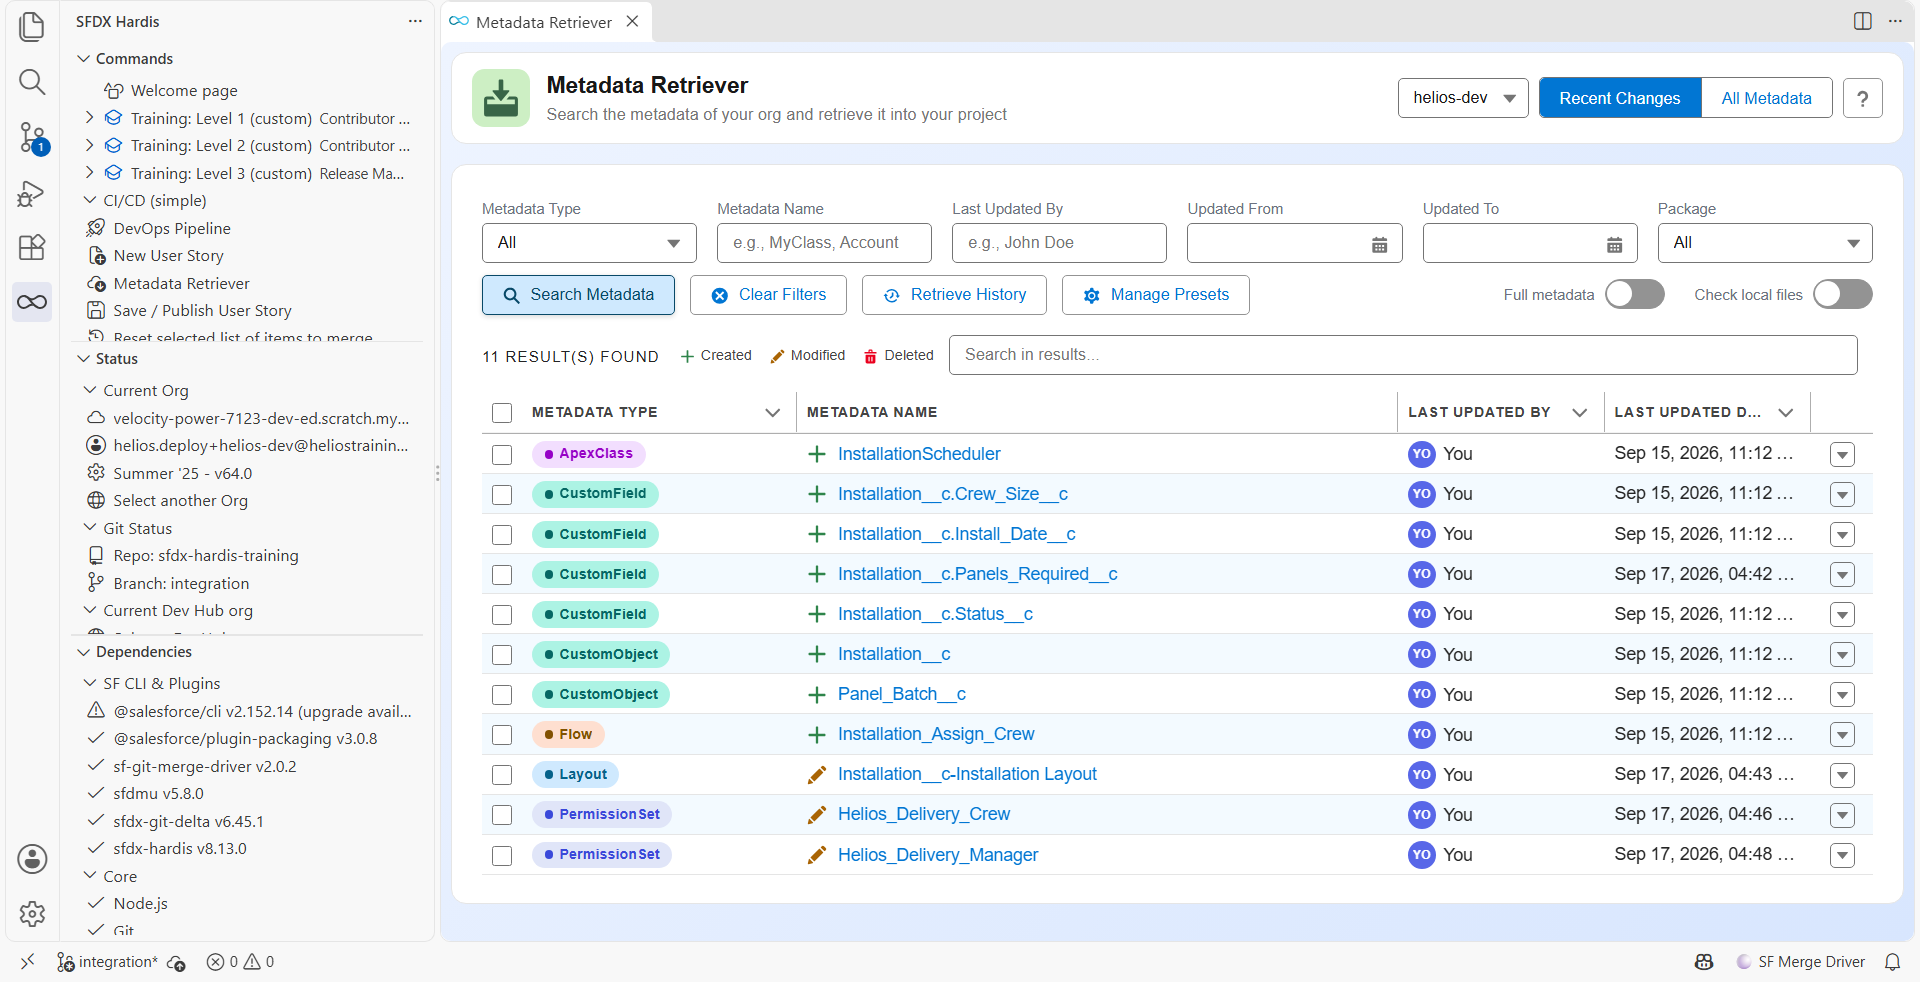
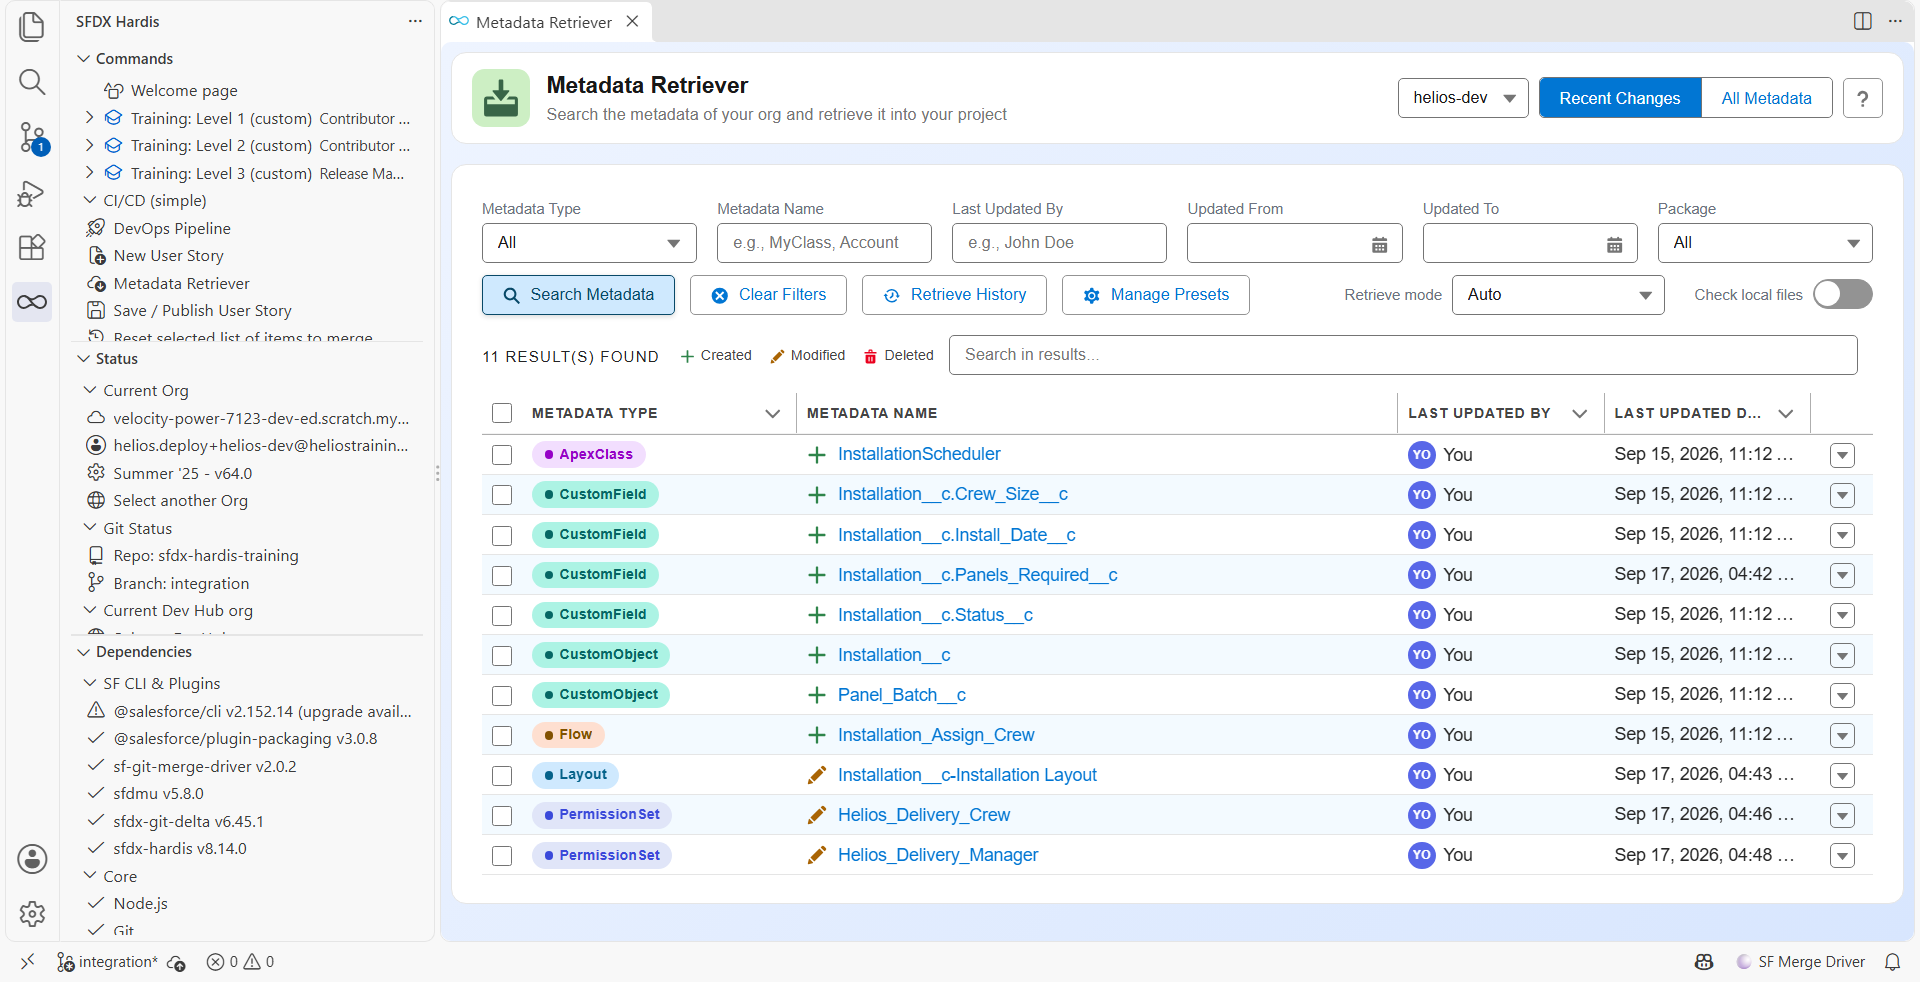
Labs 2.6 and 2.8: Profiles come back whole from the Metadata Retriever (#92)
* fix(labs): Profiles come back whole from the Metadata Retriever Auto mode (Labs 2.6, 2.8)

* fix(labs): French Labs 2.6 and 2.8 follow the Auto retrieve mode, changelog

* fix(labs): Lab 2.6 Profiles carry no permission, and can still be long

* fix(labs): French Lab 2.6 follows

* fix(labs): Lab 2.6 says which permissions stay, Labs 2.6 and 2.8 depend on the retriever and mdapi:read

* fix(labs): French Labs 2.6 and 2.8 follow

* fix(build): doc-links finds the end of a command description past an escaped backtick

* docs(screenshots): Metadata Retriever with the Retrieve mode

diff --git a/labs/fr/level-2-contributor-advanced/2-6-permission-sets-and-profiles.md b/labs/fr/level-2-contributor-advanced/2-6-permission-sets-and-profiles.md
@@ -5,15 +5,15 @@ description: "Une permission accordée sur un profil s'évapore après un déplo
 level: 2
 lab: 6
 lang: fr
-source_rev: "227087b70542c7fdd5f235321968b5154475be67"
+source_rev: "76638d6bc8fedd4ecbcb798f9b026bb80023e7bd"
 screenshots:
   - annotated/vscode/pipeline-cards--new-user-story
   - annotated/vscode/pipeline-config
 depends_on:
-  commands: [hardis:work:save]
-  flags: []
+  commands: [hardis:mdapi:read, hardis:work:save]
+  flags: [--active-only]
   config: [autoCleanTypes, minimizeProfiles, autoRemoveUserPermissions]
-  panels: [pipelineConfig, packageXml]
+  panels: [metadataRetriever, pipelineConfig, packageXml]
   docs: [salesforce-devops-work-on-user-story-profiles]
 ---
 
@@ -68,6 +68,11 @@ Faites-en un retrieve comme d'habitude : **Commit changes**, **Recent Changes**,
 cochez le profil `Helios Crew`, récupérez, et commitez-le depuis **Source Control**. Puis
 **Save / Publish**, poussez, Pull Request, vert, merge.
 
+Le fichier est bien plus long que celui du repository. Le **Retrieve mode** du Metadata Retriever
+indique **Auto** : il récupère un profil en entier, toutes les permissions qu'il accorde dans
+`helios-dev`, donc votre nouvel accès à `Cost` s'y trouve, avec tout ce que le profil peut faire
+d'autre.
+
 ### 2. Découvrir qu'il ne s'est rien passé
 
 Ouvrez `helios-integration` et vérifiez la sécurité au niveau du champ de **Panel Batch > Cost** : la
@@ -98,12 +103,16 @@ même temps :
    d'objet, de champ, d'onglet, d'application et de classe de l'org. Deux personnes qui travaillent
    sur deux stories sans rapport produisent chacune un diff de mille lignes du même fichier, et elles
    entrent en conflit à chaque fois
-2. **Un profil récupéré dit non à ce qu'il n'avait pas.** Il liste les champs et objets de votre
-   package avec `false` partout où le profil n'avait pas accès au moment de la récupération. Si un
-   collègue en a accordé un depuis, déployer votre fichier **le lui éteint**, en silence
-3. **Ce que vous récupérez dépend de votre package.** Un profil est récupéré avec seulement les
-   permissions des composants de votre package : le même profil a donc une tête différente selon qui
-   l'a récupéré et quand
+2. **Un profil récupéré peut dire non à ce qu'il n'avait pas.** Récupéré de la façon standard, il
+   liste les champs et objets de votre package avec `false` partout où le profil n'avait pas accès
+   au moment de la récupération. Si un collègue en a accordé un depuis, déployer votre fichier
+   **le lui éteint**, en silence. Le mode **Auto** du Metadata Retriever laisse ces lignes `false`
+   de côté
+3. **Ce que vous récupérez dépend de la façon, et de l'org.** Récupéré de la façon standard, un
+   profil ne porte que les permissions des composants récupérés avec lui. Récupéré en entier, comme
+   le fait le Metadata Retriever en **Auto**, il porte tout ce que le profil a dans l'org d'où il
+   vient. Dans les deux cas, le même profil a une tête différente selon qui l'a récupéré, depuis
+   quelle org, et quand
 
 `minimizeProfiles` retire des profils tout ce qu'un permission set pourrait porter à la place, en
 laissant les profils ne contenir que ce qui ne peut vraiment vivre nulle part ailleurs : les plages
@@ -120,11 +129,14 @@ transporter finirait par supprimer celui de quelqu'un d'autre.
     chaque org. `Admin` et `Helios Crew` restent donc dans `force-app/main/default/profiles/`,
     restent dans `manifest/package.xml`, et sont déployés avec tout le reste.
 
-    Ils restent **courts** exprès. Un profil récupéré en entier liste des centaines de permissions
-    utilisateur, et Salesforce en ajoute et en retire à chaque release, trois fois par an : un profil
-    complet commité au printemps peut échouer au déploiement à l'automne sur une permission qui
-    n'existe plus. La version courte ne nomme que ce que ce projet a décidé, et `minimizeProfiles` la
-    garde courte à chaque fois que quelqu'un en publie un.
+    Ils ne portent **aucune permission de champ, d'objet, de classe ou de flow**, exprès, et aucune
+    permission utilisateur sauf sur `Admin`. Un profil récupéré en entier liste des centaines de
+    permissions utilisateur, et Salesforce en ajoute et en retire à chaque release, trois fois par an :
+    un profil complet commité au printemps peut échouer au déploiement à l'automne sur une permission
+    qui n'existe plus. `minimizeProfiles` retire ces permissions à chaque fois que quelqu'un publie un
+    profil. Ce qui reste peut quand même être long, car un profil récupéré en entier liste le réglage
+    d'onglet et la présentation de page de chaque objet de l'org : c'est exactement ce que seul un
+    profil peut porter.
 
 ### 5. Le faire comme le projet l'attend
 
@@ -223,7 +235,11 @@ L'utilisateur de CI ne peut pas accorder une permission qu'il n'a pas lui-même.
 **Training: Level 2 > Set up one of my training orgs**.
 
 **Le profil revient long de mille lignes.**
-Il a été commité après une récupération et n'est jamais passé par le nettoyage. Vérifiez que
+Un profil récupéré en entier garde, après le nettoyage, les réglages d'onglets et la mise en page
+de chaque objet de l'org, son application et ses types d'enregistrement par défaut, et sur `Admin`
+ses permissions utilisateur : ils restent exprès. S'il porte encore des
+permissions de champ, d'objet ou de classe, il a été commité après une récupération et n'est
+jamais passé par le nettoyage. Vérifiez que
 `minimizeProfiles` est toujours listé dans l'onglet **Salesforce Project** de **Pipeline Settings**,
 puis refaites **Save / Publish**. Ne raccourcissez pas le fichier à la main.
 

diff --git a/labs/en/level-2-contributor-advanced/2-6-permission-sets-and-profiles.md b/labs/en/level-2-contributor-advanced/2-6-permission-sets-and-profiles.md
@@ -10,10 +10,10 @@ screenshots:
   - annotated/vscode/pipeline-cards--new-user-story
   - annotated/vscode/pipeline-config
 depends_on:
-  commands: [hardis:work:save]
-  flags: []
+  commands: [hardis:mdapi:read, hardis:work:save]
+  flags: [--active-only]
   config: [autoCleanTypes, minimizeProfiles, autoRemoveUserPermissions]
-  panels: [pipelineConfig, packageXml]
+  panels: [metadataRetriever, pipelineConfig, packageXml]
   docs: [salesforce-devops-work-on-user-story-profiles]
 ---
 
@@ -65,6 +65,10 @@ Retrieve it the usual way: **Commit changes**, **Recent Changes**, **Search Meta
 `Helios Crew` Profile, retrieve, and commit it from **Source Control**. Then **Save / Publish**,
 push, Pull Request, green, merge.
 
+The file is much longer than the one in the repository. The **Retrieve mode** of the Metadata
+Retriever reads **Auto**: it retrieves a Profile whole, every permission it grants in `helios-dev`,
+so your new grant on `Cost` is in it, along with everything else the profile can do.
+
 ### 2. Discover that nothing happened
 
 Open `helios-integration` and check the field-level security of **Panel Batch > Cost**: the
@@ -93,12 +97,14 @@ Profiles are the single worst metadata type to version, for three reasons that a
 1. **They are enormous and they are shared.** One Profile file lists every object, field, tab, app
    and class permission in the org. Two people touching two unrelated stories both produce a
    thousand-line diff of the same file, and they conflict every time
-2. **A retrieved Profile says no to what it did not have.** It lists the fields and objects of your
-   package with `false` wherever the profile had no access when you retrieved it. If a colleague
-   granted one of them since, deploying your file **switches theirs off**, silently
-3. **What you retrieve depends on your package.** A Profile is retrieved with only the permissions
-   for the components in your package, so the same Profile looks different depending on who
-   retrieved it and when
+2. **A retrieved Profile can say no to what it did not have.** Retrieved the standard way, it lists
+   the fields and objects of your package with `false` wherever the profile had no access when you
+   retrieved it. If a colleague granted one of them since, deploying your file **switches theirs
+   off**, silently. The Metadata Retriever's **Auto** mode leaves those `false` lines out
+3. **What you retrieve depends on how, and from where.** Retrieved the standard way, a Profile only
+   holds the permissions of the components retrieved with it. Retrieved whole, as the Metadata
+   Retriever does in **Auto**, it holds everything the profile has in the org it came from. Either
+   way, the same Profile looks different depending on who retrieved it, from which org, and when
 
 `minimizeProfiles` strips from Profiles everything that a Permission Set could carry instead,
 leaving Profiles to hold only what genuinely cannot live anywhere else: login hours, IP ranges,
@@ -114,11 +120,13 @@ delete somebody else's.
     `force-app/main/default/profiles/`, stay in `manifest/package.xml`, and are deployed with
     everything else.
 
-    They stay **short** on purpose. A Profile retrieved whole lists hundreds of user permissions, and
-    Salesforce adds and removes some at every release, three times a year: a full Profile committed
-    in spring can fail to deploy in autumn on a permission that no longer exists. The short version
-    names only what this project decided, and `minimizeProfiles` keeps it short every time somebody
-    publishes one.
+    They carry **no field, object, class or Flow permission** on purpose, and no user permission
+    except on `Admin`. A Profile retrieved whole lists hundreds of user permissions, and Salesforce
+    adds and removes some at every release, three times a year: a full Profile committed in spring
+    can fail to deploy in autumn on a permission that no longer exists. `minimizeProfiles` takes
+    those permissions out every time somebody publishes a Profile. What stays can still be long,
+    because a Profile retrieved whole lists the tab setting and the page layout of every object of
+    the org: those are exactly what only a Profile can hold.
 
 ### 5. Do it the way the project expects
 
@@ -214,8 +222,10 @@ The CI user cannot grant a permission it does not have itself. Assign **Helios D
 the integration org user, which **Training: Level 2 > Set up one of my training orgs** does.
 
 **The Profile comes back a thousand lines long.**
-It was committed after a retrieve and never went through the cleaning. Check that
-`minimizeProfiles` is still listed on the **Salesforce Project** tab of **Pipeline Settings**, then
+A Profile retrieved whole keeps, after the cleaning, the tab settings and the page layout of every
+object of the org, its default app and record types, and on `Admin` its user permissions: those
+stay on purpose. If it still carries field, object or class permissions, it was committed after a retrieve and never went through the cleaning. Check
+that `minimizeProfiles` is still listed on the **Salesforce Project** tab of **Pipeline Settings**, then
 **Save / Publish** again. Do not shorten the file by hand.
 
 ## Check your work

diff --git a/labs/fr/level-2-contributor-advanced/2-8-recover-from-committing-the-wrong-metadata.md b/labs/fr/level-2-contributor-advanced/2-8-recover-from-committing-the-wrong-metadata.md
@@ -5,17 +5,17 @@ description: "Vous avez publié bien plus que votre story. Voyez ce que cela fai
 level: 2
 lab: 8
 lang: fr
-source_rev: "535933b2169df3a48c9e413e1dd771eeb28b3f29"
+source_rev: "76638d6bc8fedd4ecbcb798f9b026bb80023e7bd"
 screenshots:
   - annotated/vscode/pipeline-cards--new-user-story
   - annotated/vscode/metadata-retriever-recent-changes--select-all
   - annotated/vscode/sidebar
   - annotated/vscode/pipeline-cards--save-publish
 depends_on:
-  commands: [hardis:work:resetselection, hardis:work:save]
-  flags: []
+  commands: [hardis:mdapi:read, hardis:work:resetselection, hardis:work:save]
+  flags: [--active-only]
   config: []
-  panels: [commandExecution, packageXml]
+  panels: [metadataRetriever, commandExecution, packageXml]
   docs: [salesforce-devops-publish-user-story, salesforce-devops-manual-repo-clean]
 ---
 
@@ -73,9 +73,9 @@ Regardez le rapport **Git Delta package.xml** que la publication a proposé : bi
 présentation de page que votre story a modifiée. Ouvrez la Pull Request et lisez le diff.
 
 Au minimum il y a **un profil**, `Admin`, le profil System Administrator. Le repository le porte
-court, quelques lignes, et il est revenu plus long de plusieurs centaines de lignes : chaque champ que
-vous avez créé dans Setup depuis le Niveau 1 a donné à ce profil une sécurité au niveau du champ, et
-une récupération de toute l'org ramène tout cela avec. Ce qui vient d'autre dépend de ce qu'a vécu
+court, quelques lignes, et il est revenu plus long de plusieurs centaines de lignes : le Metadata
+Retriever récupère un profil en entier, chaque permission, onglet et mise en page qu'il a dans
+votre org, et rien de tout cela n'est votre story. Ce qui vient d'autre dépend de ce qu'a vécu
 votre org, et une récupération de toute l'org sur un vrai projet en emporte généralement une partie
 :
 

diff --git a/labs/en/level-2-contributor-advanced/2-8-recover-from-committing-the-wrong-metadata.md b/labs/en/level-2-contributor-advanced/2-8-recover-from-committing-the-wrong-metadata.md
@@ -12,10 +12,10 @@ screenshots:
   - annotated/vscode/sidebar
   - annotated/vscode/pipeline-cards--save-publish
 depends_on:
-  commands: [hardis:work:resetselection, hardis:work:save]
-  flags: []
+  commands: [hardis:mdapi:read, hardis:work:resetselection, hardis:work:save]
+  flags: [--active-only]
   config: []
-  panels: [commandExecution, packageXml]
+  panels: [metadataRetriever, commandExecution, packageXml]
   docs: [salesforce-devops-publish-user-story, salesforce-devops-manual-repo-clean]
 ---
 
@@ -72,9 +72,9 @@ Look at the **Git Delta package.xml** report the publish offered: more than the 
 changed. Open the Pull Request and read the diff.
 
 At the very least there is **a Profile**, `Admin`, the System Administrator profile. The repository
-carries it short, a few lines, and it came back several hundred lines longer: every field you created in
-Setup since Level 1 gave that profile field-level security, and a whole-org retrieve brings all of
-it along. What else comes depends on what your org went through, and
+carries it short, a few lines, and it came back hundreds of lines longer: the Metadata Retriever
+retrieves a Profile whole, every permission, tab and page layout it has in your org, and none of it
+is your story. What else comes depends on what your org went through, and
 a whole-org retrieve on a real project usually carries some of it:
 
 - **a list view** left over from an earlier story, still in your org, or a **transaction security

diff --git a/CHANGELOG.md b/CHANGELOG.md
@@ -3,6 +3,11 @@
 What changed in the course, for learners and trainers. The course has no versions: each section is
 a day, newest first, and a change goes under the date of the day it is made.
 
+## 2026-10-07
+
+- Labs 1.5, 2.2 and 2.8: the Metadata Retriever screenshots show its new **Retrieve mode** list.
+- Labs 2.6 and 2.8: the Metadata Retriever now brings Profiles back whole, with only the permissions they grant, and the labs say what that changes in the file you commit.
+
 ## 2026-10-06
 
 - Lab 2.4: the Helios project turns on the stop of the check on a pending manual step, which sfdx-hardis no longer does by default.
